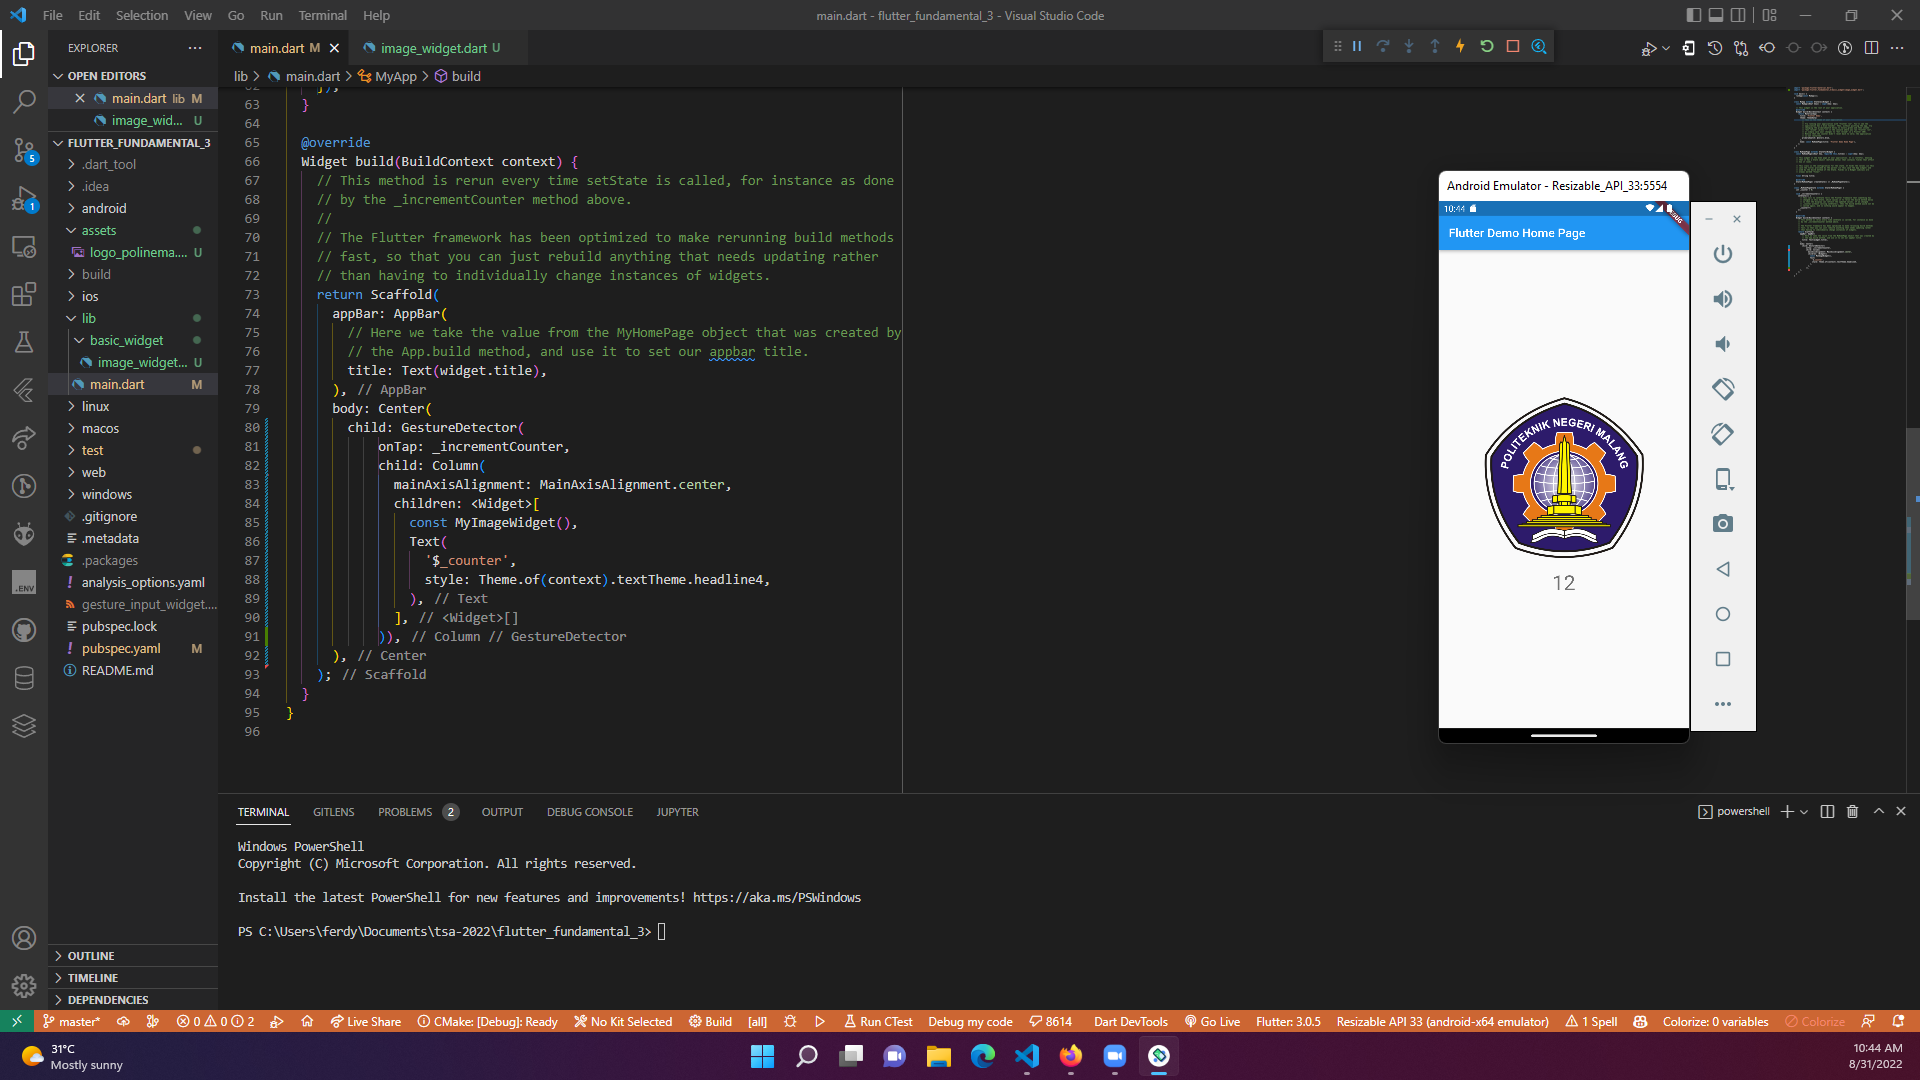
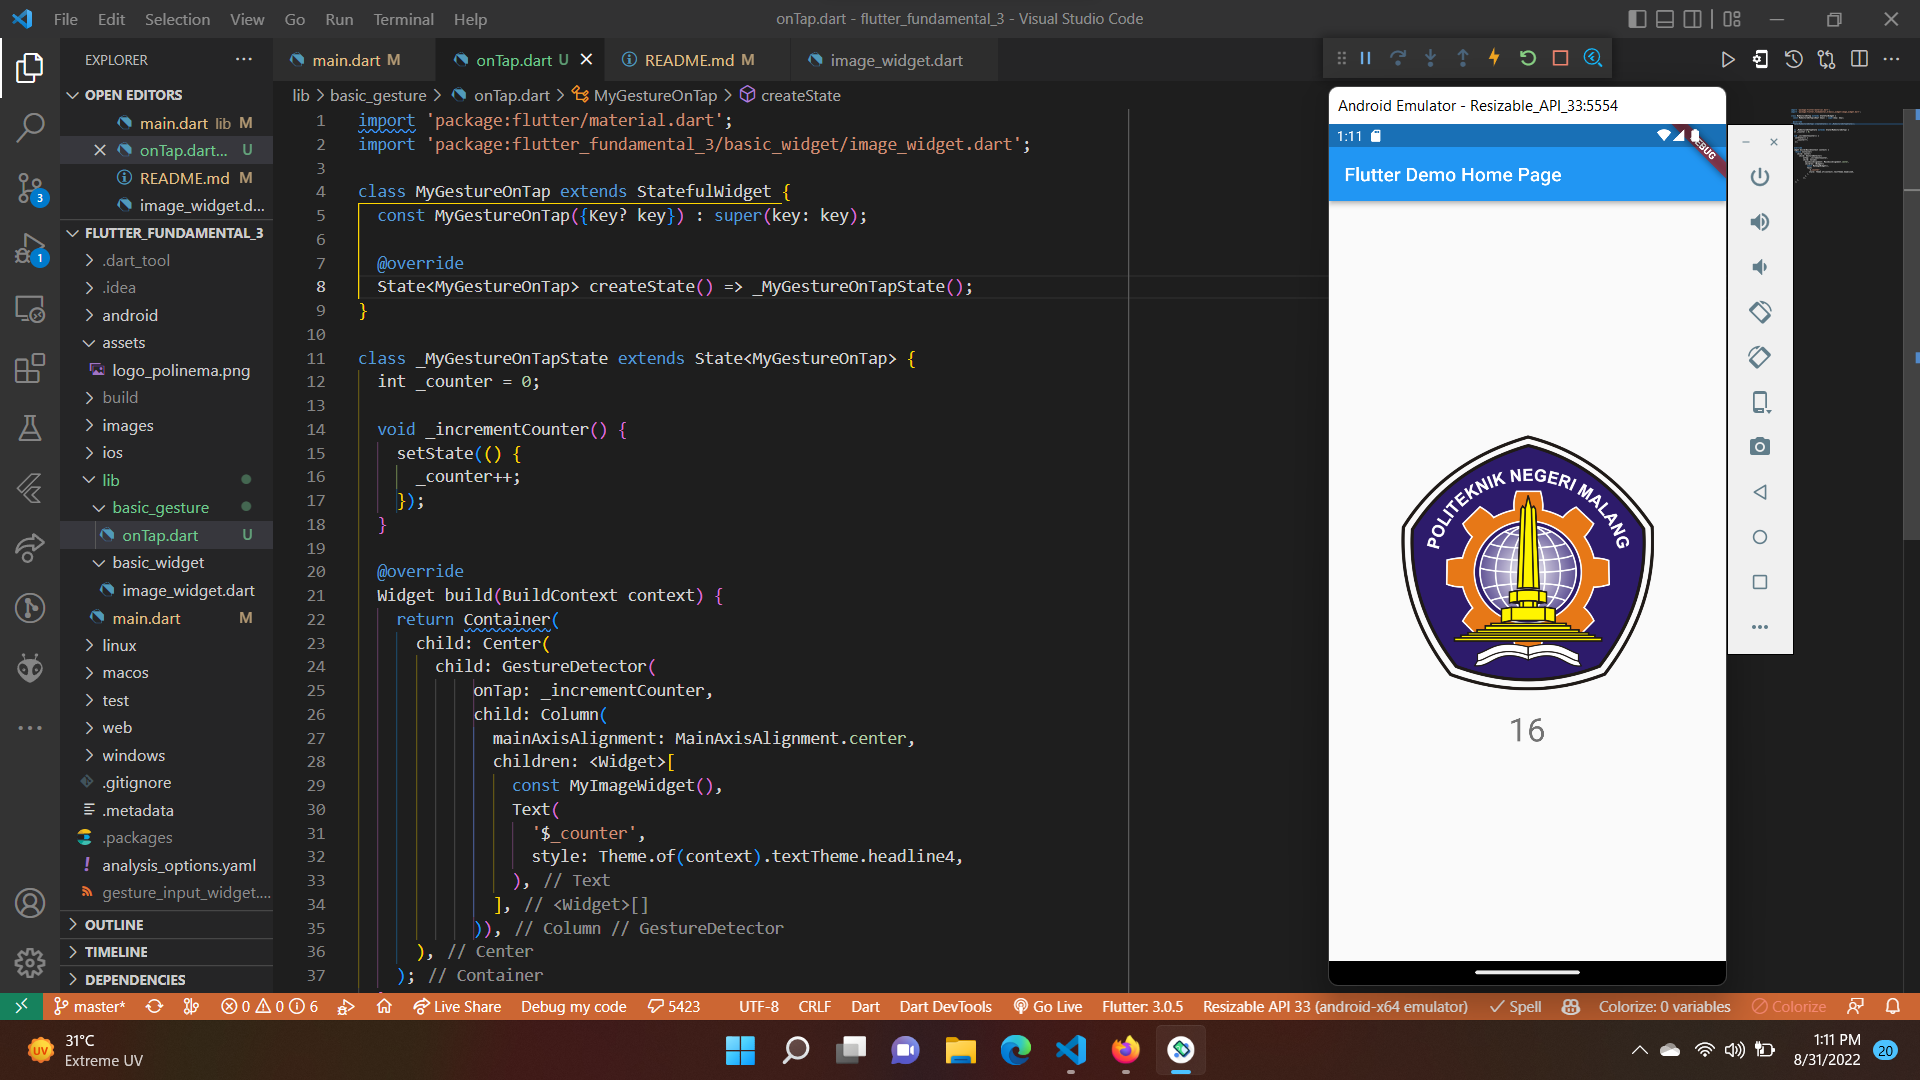
praktikum 1

diff --git a/lib/basic_gesture/onDoubleTap.dart b/lib/basic_gesture/onDoubleTap.dart
@@ -1,0 +1,39 @@
+import 'package:flutter/material.dart';
+import 'package:flutter_fundamental_3/basic_widget/image_widget.dart';
+
+class MyGestureOnTap extends StatefulWidget {
+  const MyGestureOnTap({Key? key}) : super(key: key);
+
+  @override
+  State<MyGestureOnTap> createState() => _MyGestureOnTapState();
+}
+
+class _MyGestureOnTapState extends State<MyGestureOnTap> {
+  int _counter = 0;
+
+  void _incrementCounter() {
+    setState(() {
+      _counter++;
+    });
+  }
+
+  @override
+  Widget build(BuildContext context) {
+    return Container(
+      child: Center(
+        child: GestureDetector(
+            onDoubleTap: _incrementCounter,
+            child: Column(
+              mainAxisAlignment: MainAxisAlignment.center,
+              children: <Widget>[
+                const MyImageWidget(),
+                Text(
+                  '$_counter',
+                  style: Theme.of(context).textTheme.headline4,
+                ),
+              ],
+            )),
+      ),
+    );
+  }
+}

diff --git a/lib/basic_gesture/onLongPress.dart b/lib/basic_gesture/onLongPress.dart
@@ -1,0 +1,39 @@
+import 'package:flutter/material.dart';
+import 'package:flutter_fundamental_3/basic_widget/image_widget.dart';
+
+class MyGestureOnTap extends StatefulWidget {
+  const MyGestureOnTap({Key? key}) : super(key: key);
+
+  @override
+  State<MyGestureOnTap> createState() => _MyGestureOnTapState();
+}
+
+class _MyGestureOnTapState extends State<MyGestureOnTap> {
+  int _counter = 0;
+
+  void _incrementCounter() {
+    setState(() {
+      _counter++;
+    });
+  }
+
+  @override
+  Widget build(BuildContext context) {
+    return Container(
+      child: Center(
+        child: GestureDetector(
+            onLongPress: _incrementCounter,
+            child: Column(
+              mainAxisAlignment: MainAxisAlignment.center,
+              children: <Widget>[
+                const MyImageWidget(),
+                Text(
+                  '$_counter',
+                  style: Theme.of(context).textTheme.headline4,
+                ),
+              ],
+            )),
+      ),
+    );
+  }
+}

diff --git a/lib/basic_gesture/onTap.dart b/lib/basic_gesture/onTap.dart
@@ -1,0 +1,39 @@
+import 'package:flutter/material.dart';
+import 'package:flutter_fundamental_3/basic_widget/image_widget.dart';
+
+class MyGestureOnTap extends StatefulWidget {
+  const MyGestureOnTap({Key? key}) : super(key: key);
+
+  @override
+  State<MyGestureOnTap> createState() => _MyGestureOnTapState();
+}
+
+class _MyGestureOnTapState extends State<MyGestureOnTap> {
+  int _counter = 0;
+
+  void _incrementCounter() {
+    setState(() {
+      _counter++;
+    });
+  }
+
+  @override
+  Widget build(BuildContext context) {
+    return Container(
+      child: Center(
+        child: GestureDetector(
+            onTap: _incrementCounter,
+            child: Column(
+              mainAxisAlignment: MainAxisAlignment.center,
+              children: <Widget>[
+                const MyImageWidget(),
+                Text(
+                  '$_counter',
+                  style: Theme.of(context).textTheme.headline4,
+                ),
+              ],
+            )),
+      ),
+    );
+  }
+}

diff --git a/lib/main.dart b/lib/main.dart
@@ -1,5 +1,5 @@
 import 'package:flutter/material.dart';
-import 'package:flutter_fundamental_3/basic_widget/image_widget.dart';
+import 'package:flutter_fundamental_3/basic_gesture/onLongPress.dart';
 
 void main() {
   runApp(const MyApp());
@@ -76,20 +76,7 @@ class _MyHomePageState extends State<MyHomePage> {
         // the App.build method, and use it to set our appbar title.
         title: Text(widget.title),
       ),
-      body: Center(
-        child: GestureDetector(
-            onTap: _incrementCounter,
-            child: Column(
-              mainAxisAlignment: MainAxisAlignment.center,
-              children: <Widget>[
-                const MyImageWidget(),
-                Text(
-                  '$_counter',
-                  style: Theme.of(context).textTheme.headline4,
-                ),
-              ],
-            )),
-      ),
+      body: MyGestureOnTap(),
     );
   }
 }

diff --git a/README.md b/README.md
@@ -1,16 +1,36 @@
-# gesture_input_widget
+# Flutter Fundamental - Bagian 3
 
-A new Flutter project.
+## Tujuan Praktikum
 
-## Getting Started
+Setelah menyelesaikan codelab ini Anda akan mampu untuk:
 
-This project is a starting point for a Flutter application.
+* Menerapkan jenis-jenis gesture
+* Menerapkan input widget dan controllernya
+* Menerapkan custom input dan FormField widget
 
-A few resources to get you started if this is your first Flutter project:
+## Praktikum 1: Menerapkan Gesture Detector
 
-- [Lab: Write your first Flutter app](https://docs.flutter.dev/get-started/codelab)
-- [Cookbook: Useful Flutter samples](https://docs.flutter.dev/cookbook)
+![Gesture Detector On Tap](./images/01.png)
 
-For help getting started with Flutter development, view the
-[online documentation](https://docs.flutter.dev/), which offers tutorials,
-samples, guidance on mobile development, and a full API reference.
+Jika Anda coba klik/tap pada gambar, maka angka di bawah akan terus bertambah. Mengapa demikian?
+
+* Karena terdapat widget GestureDetector yang membungkus sebuah widget onTap yang berisi function _incrementCounter. Serta ada juga widget image dan widget text di GestureDetector ini. Sehingga jika di klik sekali maka akan menjalankan function _incrementCounter.
+
+### Eksperimen Jenis Gesture Lain
+
+#### On Double Tap
+
+![Gesture Detector On Double Tap](./images/01.2.png)
+
+* Pada gesture (On Double Tap) ini, kita perlu klik gambar sebanyak 2 kali untuk melakukan increment angka.
+
+![Gesture Detector On Long Press](./images/01.3.png)
+
+* Pada gesture (On Long Press) ini, kita perlu klik tahan agak lama untuk melakukan increment angka.
+
+<hr>
+
+
+
+
+
